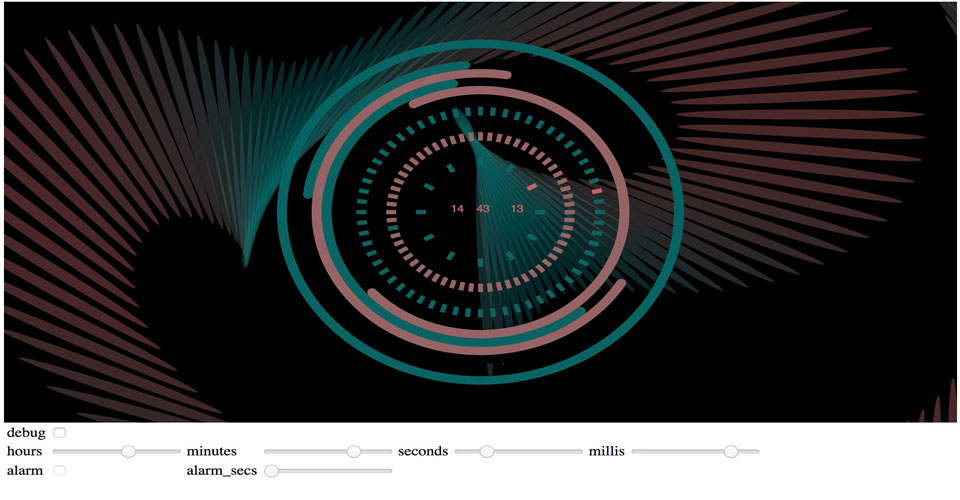
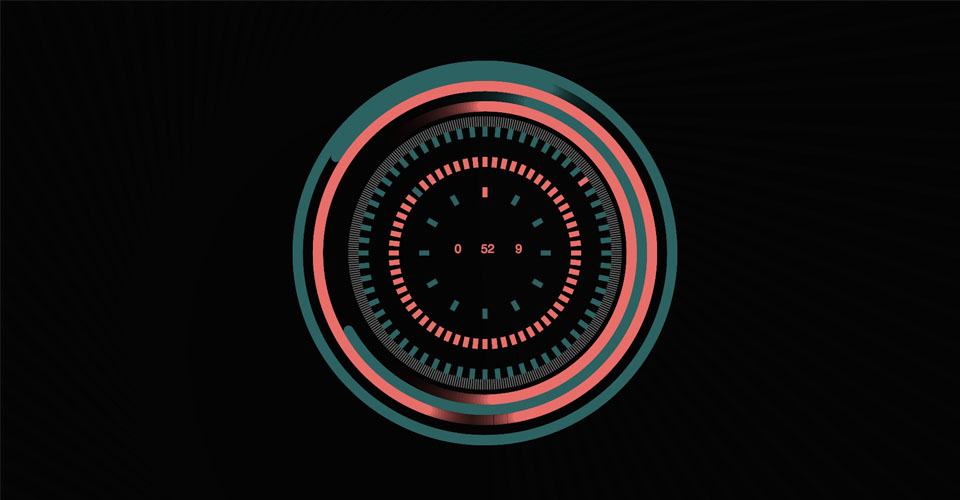
Second Step, PS1.

diff --git a/clock.js b/clock.js
@@ -15,7 +15,7 @@
   var R_hour=12;
   var R_min=60;
   var R_sec=60;
-
+  var R_mil=360
 
 function draw_clock(obj) {
     // draw your own clock here based on the values of obj:
@@ -27,27 +27,36 @@ function draw_clock(obj) {
     //        < 0 if no alarm is set
     //        = 0 if the alarm is currently going off
     //        > 0 --> the number of seconds until alarm should go off
+    let hours = obj.hours;
+    let minutes = obj.minutes;
+    let seconds = obj.seconds;
+    let millis = obj.millis;
+
   	angleMode(DEGREES);
-  	rectMode(CENTER);
-    background(0);
+
+  	ellipseMode(CENTER);
+
+    rectMode(CENTER);
+    
+    background(0,30);
+
     translate(width/2,height/2);
     //Setting
-
 
     push();
     var radius=250;
   	var i = 0;
   	time=time+1;
  	 //noStroke();
-  	strokeWeight(0.1);
+  	strokeWeight(0.05);
   	while(i<1500){
     rotate(-R);
-    var s = map(cos(i*8+time),-1,1,0,190);//Changing Background AE
+    var s = map(cos(i*8+time),-1,1,0,250);//Changing Background AE
     var c = map(s,0,150,0,255);
 
     push();
     fill(s,100,100,100);// 30 = transparent
-    ellipse(i*4,c,12,radius,radius);
+    ellipse(i*5,c,hours/2,radius,radius);
     pop();
     i=i+1;
   	}
@@ -61,14 +70,14 @@ function draw_clock(obj) {
   push()
   rotate(a);
   stroke(10,100,100);
-  ellipse(0, 0, 400, 400);
+  ellipse(0, 0, 370, 370);
   arc(0, 0, 350, 350, radians(-2990), radians(1490));
   a=a-1;
   pop();
 
   push();
   rotate(b);
-  stroke(150,100,100);
+  stroke(250,100,100);
   arc(0, 0, 330, 330, radians(-9990), radians(190));
   b=b+1.1;
   pop();
@@ -82,7 +91,7 @@ function draw_clock(obj) {
 
   push();
   rotate(d);
-  stroke(150,100,100);
+  stroke(250,100,100);
   arc(0, 0, 290, 290, radians(-1990), radians(7190));
   d=d+1.3;
   pop();
@@ -91,14 +100,15 @@ function draw_clock(obj) {
   noFill();
   strokeWeight(10);
   push()
+  /*
   rotate(e);
   stroke(0);
   arc(0, 0, 350, 350, radians(-2990), radians(1490));
   e=e+1;
-
+  */
   push();
   rotate(f);
-  stroke(150,100,100);
+  stroke(250,100,100);
   arc(0, 0, 330, 330, radians(-9990), radians(190));
   f=f-1.1;
   pop();
@@ -112,7 +122,7 @@ function draw_clock(obj) {
 
   push();
   rotate(h);
-  stroke(150,100,100);
+  stroke(250,100,100);
   arc(0, 0, 290, 290, radians(-190), radians(7190));
   h=h-1.35;
   pop();
@@ -123,19 +133,15 @@ function draw_clock(obj) {
     //Lightyears
   
   push();
-  	let hours = obj.hours;
-    let minutes = obj.minutes;
-    let seconds = obj.seconds;
-    let millis = obj.millis;
     fill(300);
 
     push();
-    fill(200,100,100);
+    fill(250,100,100);
     text(hours, -30, 0);
     text(minutes, -4, 0);
     text(seconds, 30,0);
     pop();
-
+    //text
 
   push();
   var i_hour=0;
@@ -153,7 +159,7 @@ function draw_clock(obj) {
   push();
   var i_min=0;
   noStroke();
-  fill(150,100,100);
+  fill(250,100,100);
   while(i_min<R_min){
   rotate(360/R_min);
   rect(0,-90,5,10);
@@ -163,7 +169,7 @@ function draw_clock(obj) {
   //Rotation (Minute)
 
 
-    push();
+  push();
   var i_sec=0;
   noStroke();
   fill(10,100,100);
@@ -176,10 +182,22 @@ function draw_clock(obj) {
   //Rotation (Second)
 
 
+  push();
+  var i_mil=0;
+  noStroke();
+  fill(120,99);
+  while(i_mil<R_mil){
+  rotate(360/R_mil);
+  rect(0,-130,1,10);
+  i_mil = i_mil + 1;
+  }
+  pop();
+  //Rotation (Millis) _ Different rects. 
+
 
     push();
     noStroke();
-    fill(200,100,100);
+    fill(250,100,100);
     //ellipse(0,0,50,50);//Center
     rotate(30*hours);
     rect(0,-60,5,10);
@@ -194,10 +212,13 @@ function draw_clock(obj) {
 
     push();
     noStroke();
-    fill(200,100,100);
+    fill(250,100,100);
     rotate(6*seconds);
     rect(0,-120,5,10);
     pop();
+
     //Motion Needles
     pop();
+
+    //Clock
 }

diff --git a/README.md b/README.md
@@ -12,4 +12,8 @@ Attempt to adjust the lighting of background, make it brighter during daytime an
 
 :)
 
+In the second Step, I coded the background effect and the waving would be changed due to hours. And then I start coding the clock outline for next step, I also change some unperfect arcs with adding some fading for each arcs. For color, I change the brightness for two color, there is a contrast for colour section. Thus we can easily see the time. Lastly, I just add the millis clock with gray colour.  
 
+And the coding and designing, I would try making digital style for my own clock. 
+
+:*)
